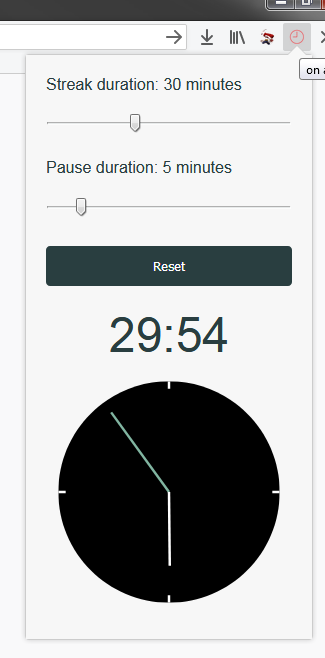
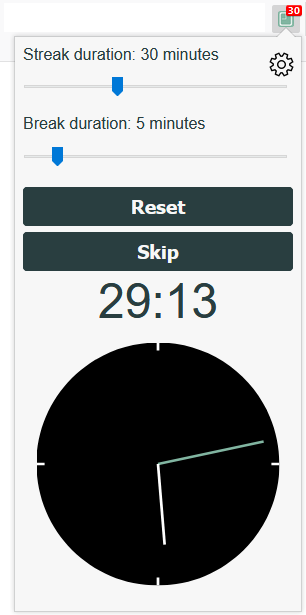
Packed 2.1.2 with color adjustmnent

Changed region(s): [[0.0, 0.0, 1.0, 1.0], [0.4118, 0.6797, 0.4706, 0.7106], [0.3824, 0.6488, 0.4118, 0.6797]]

diff --git a/background.js b/background.js
@@ -20,7 +20,7 @@ const clock = {
             color = "green";
             title = "on a break";
         } else {
-            color = "red";
+            color = "DarkRed";
             title = "on a streak";
         }
         if (!clock.showMinutes) {
